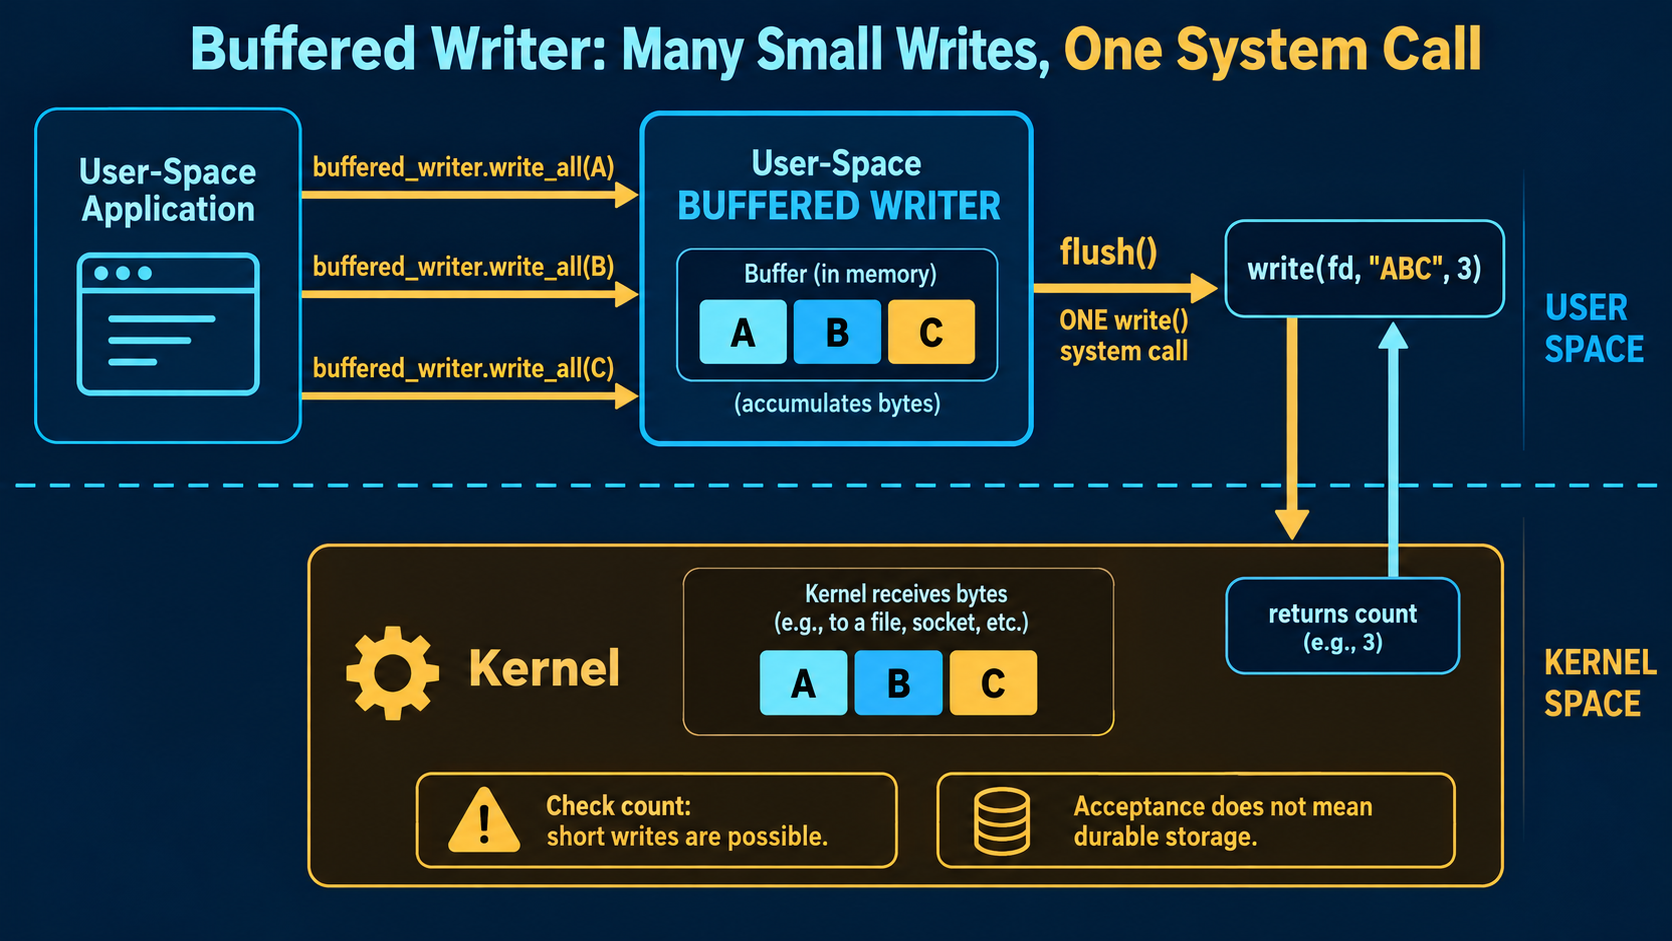
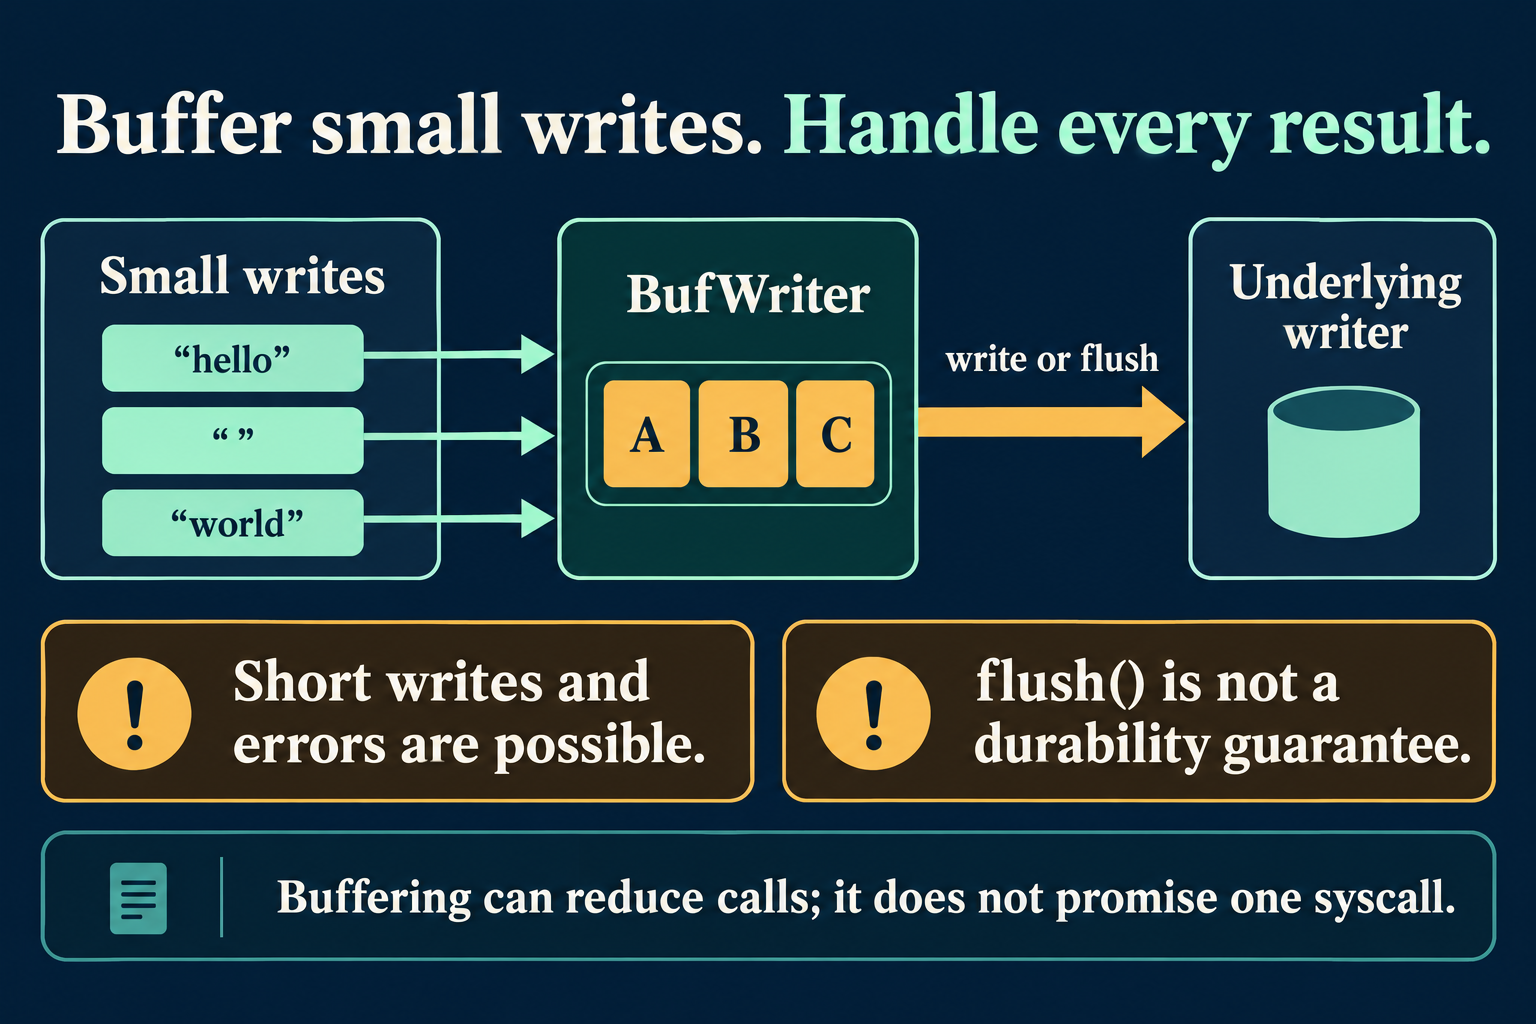
Correct buffering and trait-object interview lessons

diff --git a/README.md b/README.md
@@ -10,7 +10,7 @@ Constellation Generator now produces a deterministic **64 × 40 color canvas** a
 
 All 742 lessons have expanded explanations, worked guidance, and an infographic with alt text and a caption: 142 Rust lessons and 600 Algorithm Atlas steps. Atlas uses two five-pattern diagrams per unit, so 40 images cover all 600 steps without duplicating image bytes in the downloadable pack. The 70 previously unillustrated Rust lessons have individual, deterministic code-to-rule diagrams generated by `tools/complete_lesson_illustrations.py`; the earlier custom artwork remains intact. The [free Learn website](https://crabrix.com/learn/) presents the same authored curriculum. Visitors see approximately 30% of each lesson; a free website account opens the complete text and infographics. The native app remains account-free. Its public, signed CoursePack delivery is separate from website access control. App downloads use production-signed CoursePacks; each changed course receives a new content version and descriptor.
 
-The sequence-12 catalog updates Basics to 1.0.6 and Systems / Interview to 1.0.5. The other five entries retain their versions and URLs, including Examples 1.0.4 with the improved Constellation Generator. All 46 examples remain illustrated. Those packs include consistent inline Rust markup and corrected rustdoc guidance. Algorithm Atlas challenge explanations and trace steps keep their expected output behind the answer reveal. `tools/mark_inline_code.py --check` and `tests/test_editorial_quality.py` guard markup balance, illustration coverage, and challenge-answer visibility. These structural checks do not replace a full human review of all 742 explanations.
+The sequence-13 catalog offers Basics 1.0.6, Systems 1.0.5 and Interview 1.0.6. The five other courses retain their versions and URLs, including Examples 1.0.4 with the improved Constellation Generator. The follow-up sequence changes only Interview; Basics and Systems retain their sequence-12 release assets. All 46 examples remain illustrated. Those packs include consistent inline Rust markup and corrected rustdoc guidance. Algorithm Atlas challenge explanations and trace steps keep their expected output behind the answer reveal. `tools/mark_inline_code.py --check` and `tests/test_editorial_quality.py` guard markup balance, illustration coverage, and challenge-answer visibility. These structural checks do not replace a full human review of all 742 explanations.
 
 The [native Examples delivery verification](https://github.com/sergii-ziborov/Crabrix/blob/main/docs/examples-infographics-2026-10-11.md) records manual Xcode Cloud run 55: three tests passed, none failed or skipped. The production 1.0.2 → 1.0.3 update decodes all 46 illustrations and preserves an edited My Projects copy and its original version provenance.
 
@@ -33,7 +33,13 @@ Systems 1.0.5 and Interview 1.0.5 update FFI declarations for Rust 2024, clarify
 foreign linking requirements and correct the C abs safety precondition. The
 Interview FFI infographic now explains ABI, layout, pointer validity and lifetime
 contracts. [Exact image prompts](artwork/review-20261020/imagegen-prompts.json)
-record both replacements. These changes are shared with the website; existing
+record these replacements. Interview 1.0.6 also replaces the inaccurate
+one-syscall-per-buffer diagram and supplies complete checked examples for
+buffered output and borrowed trait objects. The text distinguishes flush from
+durability, avoids fixed dispatch performance rankings and explains enum versus
+open trait-object alternatives. Its revised questions match those contracts.
+The prompt record includes all three teaching-image replacements. These changes
+are shared with the website; existing
 progress and edited project copies retain their stable IDs and storage.
 
 ## Format and delivery
@@ -53,7 +59,7 @@ python3 tools/coursepack.py build --courses courses/ --out dist/ --deterministic
 python3 tools/coursepack.py parity --legacy migration/baseline-inventory.json --packages dist/ --out migration/parity-report-current.json
 python3 tools/coursepack.py verify --descriptor dist/basics.descriptor.json --archive dist/basics-1.0.6.zip --keys keys/production-keyring.json
 python3 tools/coursepack.py verify --descriptor dist/examples.descriptor.json --archive dist/examples-1.0.4.zip --keys keys/production-keyring.json
-python3 tools/coursepack.py verify-catalog --catalog catalog.v1.json --keys keys/production-keyring.json --last-sequence 11
+python3 tools/coursepack.py verify-catalog --catalog catalog.v1.json --keys keys/production-keyring.json --last-sequence 12
 python3 -m unittest discover -s tests
 ```
 

diff --git a/CHANGELOG.md b/CHANGELOG.md
@@ -1,5 +1,12 @@
 # Changelog
 
+## 20 October 2026 — Interview 1.0.6 follow-up
+
+Correct buffering and dynamic-dispatch rules, questions and complete worked
+examples. Replace the one-syscall-per-buffer infographic with an accurate
+ImageGen diagram. Catalog sequence 13 changes only Interview, retaining the
+Basics 1.0.6 and Systems 1.0.5 assets from sequence 12.
+
 ## Catalog sequence 5 — 2026-10-03
 
 - Published Examples CoursePack 1.0.2 with a code-specific How it works section in every one of the 46 project guides. Each README now has at least 140 words.
